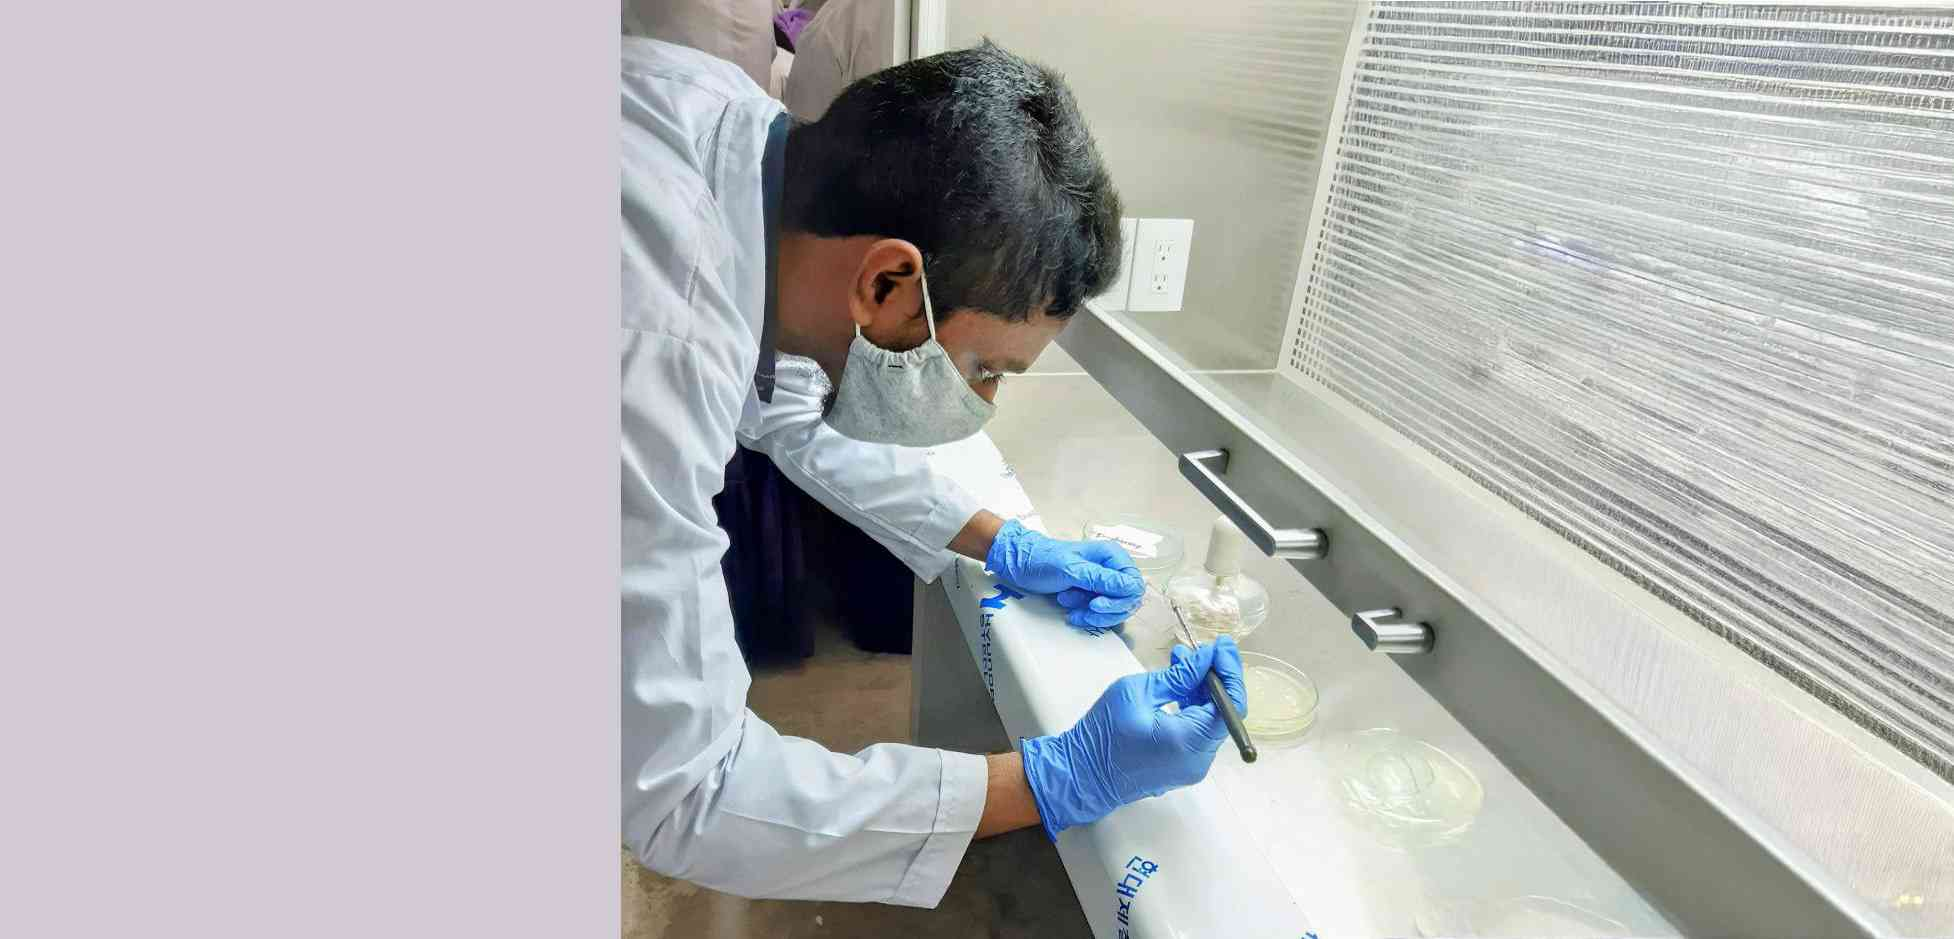
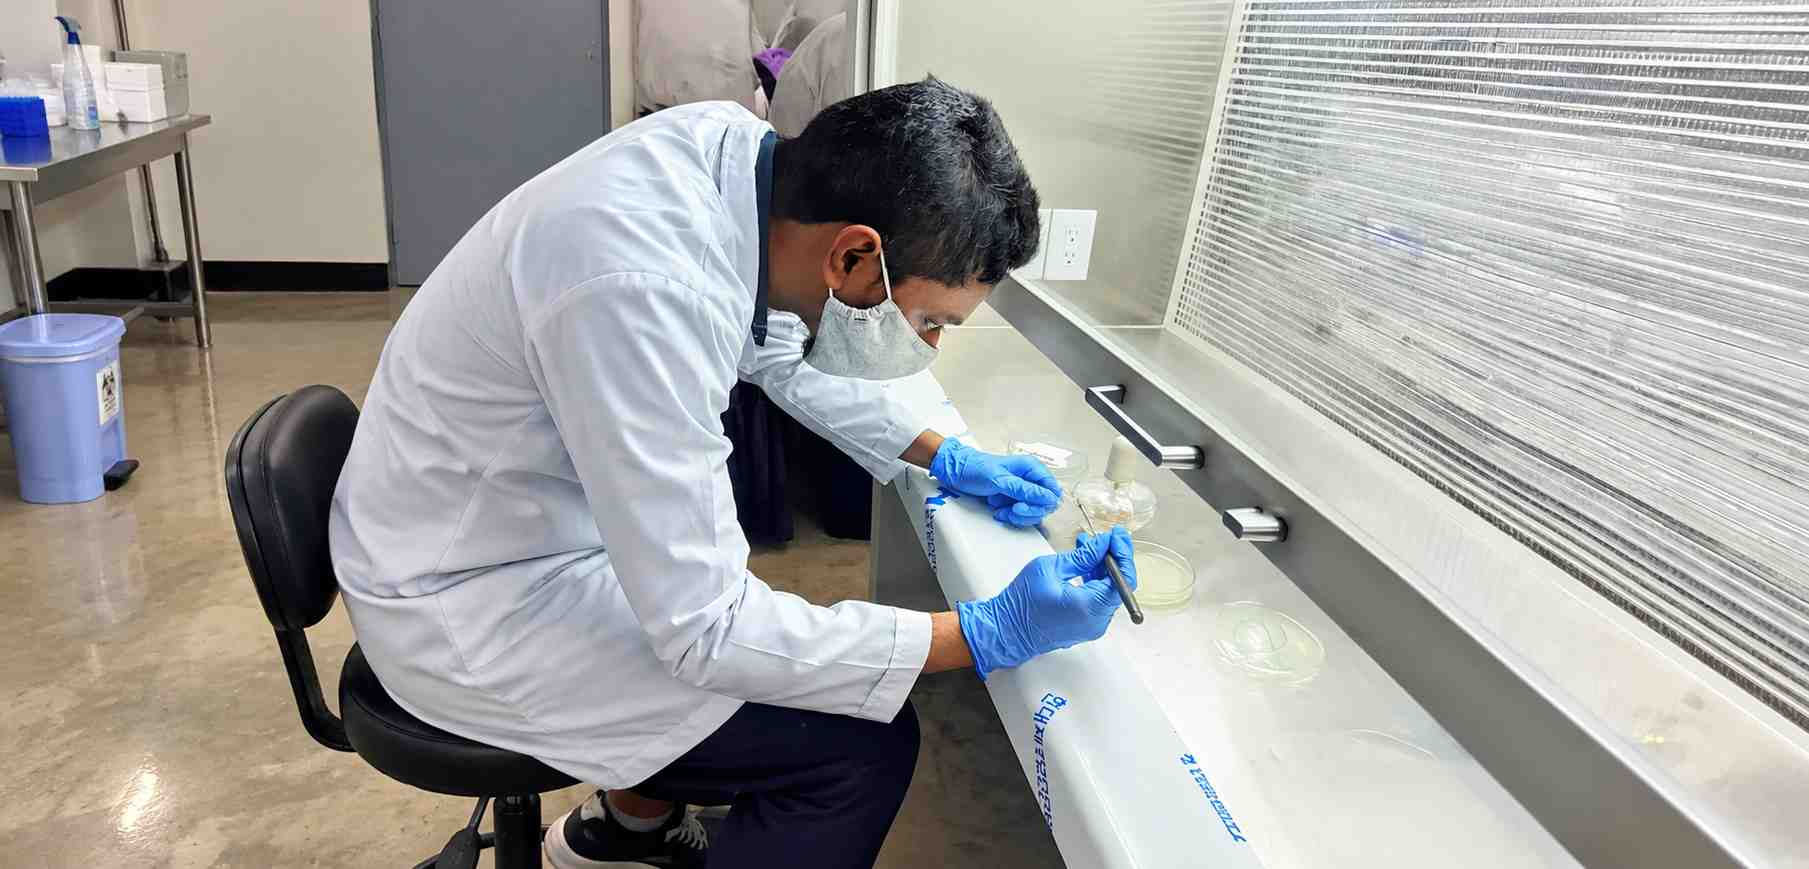
Fixed photos

diff --git a/index.html b/index.html
@@ -134,38 +134,72 @@
     <!-- Hero Section -->
 
     <section id="hero" class="hero section dark-background">
-
-      <img src="assets/img/microbiologylab.jpg" alt="Microbiologylab">
       <img src="assets/img/rotary2.jpg" alt="Rotary Evaporator">
+      <img src="assets/img/microbiologylab.jpg" alt="Microbiologylab">
+      <img src="assets/img/micelab.jpg" alt="MBSTU">
       <img src="assets/img/rotary.jpg" alt="Rotary Evaporator">
+      <img src="assets/img/elisa.jpg" alt="ELISA">
       <img src="assets/img/sa_center.jpg" alt="MBSTU">
       
       <div class="container" data-aos="fade-up" data-aos-delay="100">
         <h2>Sabbir Ahmed</h2>
-        <p>A <span class="typed" data-typed-items="Researcher, Pharmacist, Consultant, Programmer"></span><span class="typed-cursor typed-cursor--blink" aria-hidden="true"></span><span class="typed-cursor typed-cursor--blink" aria-hidden="true"></span></p>
+        <p>A <span class="typed" data-typed-items="Researcher, Pharmacist, Consultant, Programmer"></span></p>
       </div>
       <script>
-          const heroImages = document.querySelectorAll('#hero img');
-          let currentHeroIndex = 0;
+document.addEventListener("DOMContentLoaded", function () {
 
-          heroImages.forEach((img, i) => {
-            if (i !== 0) img.style.display = 'none';
-          });
+    const heroImages = document.querySelectorAll("#hero img");
+    const typedElement = document.querySelector("#hero .typed");
 
-          function cycleImages() {
-            let delay = currentHeroIndex === 0 ? 6000 : 4550;
+    let currentImageIndex = 0;
+    let lastText = "";
 
-            setTimeout(() => {
-              heroImages[currentHeroIndex].style.display = 'none';
-              currentHeroIndex = (currentHeroIndex + 1) % heroImages.length;
-              heroImages[currentHeroIndex].style.display = '';
+    const words = [
+        "Researcher",
+        "Pharmacist",
+        "Consultant",
+        "Programmer"
+    ];
 
-              cycleImages(); // call again recursively
-            }, delay);
-          }
+    // Show first image
+    heroImages.forEach((img, i) => {
+        img.style.display = i === 0 ? "block" : "none";
+    });
 
-          cycleImages();
-      </script>
+    const observer = new MutationObserver(function () {
+
+        const currentText = typedElement.textContent.trim();
+
+        // Detect when typing starts a NEW word
+        if (currentText.length === 1 && lastText.length === 0) {
+
+            currentImageIndex =
+                (currentImageIndex + 1) % heroImages.length;
+
+            heroImages.forEach((img, i) => {
+                img.style.display =
+                    i === currentImageIndex ? "block" : "none";
+            });
+        }
+
+        // Detect when deleting starts
+        if (currentText.length === 0) {
+            lastText = "";
+            return;
+        }
+
+        lastText = currentText;
+
+    });
+
+    observer.observe(typedElement, {
+        childList: true,
+        characterData: true,
+        subtree: true
+    });
+
+});
+</script>
 
     </section><!-- /Hero Section -->
 

diff --git a/assets/css/main.css b/assets/css/main.css
@@ -562,6 +562,17 @@ section,
   z-index: 1;
 }
 
+@media (max-width: 768px) {
+  .hero {
+    min-height: 50vh;
+  }
+
+  .hero img {
+    object-fit: cover;
+    object-position: center center;
+  }
+}
+
 .hero:before {
   content: "";
   background: color-mix(in srgb, var(--background-color), transparent 70%);
